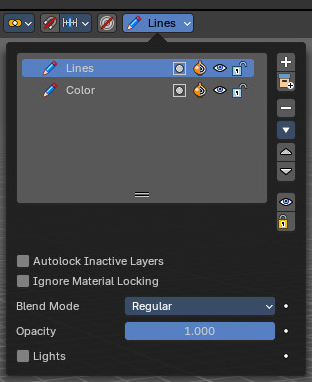
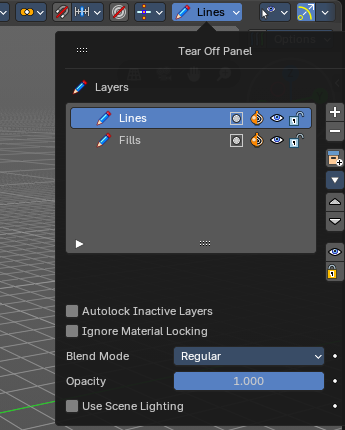
Grease Pencil header: Layers popover title (#1797)

diff --git a/docs2/content/editors/3d-viewport/all-modes/header/header-tools-and-options.md b/docs2/content/editors/3d-viewport/all-modes/header/header-tools-and-options.md
@@ -3024,6 +3024,8 @@ Two optional buttons from **View > Navigation**: **Reset Roll** levels the view 
 
 This panel shows in most of the modes. It is the same content than the Layers panel in the Object Data Properties.
 
+Open it with the layer button in the header. The button shows the name of the active layer, for example **Lines**. The popover has the title **Layers**, the same name as the panel in the Object Data Properties, so you can see that both show the same content.
+
 ## Layer list
 
 ### Layer name
